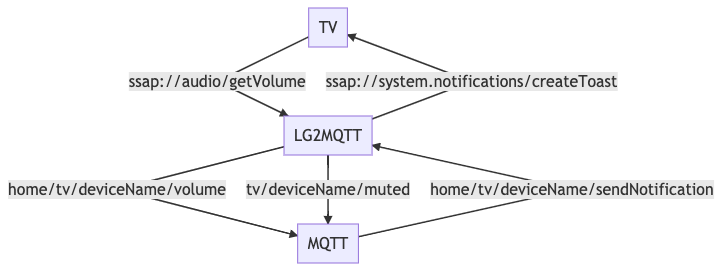
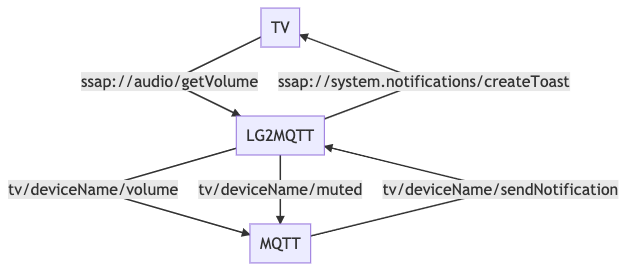
docs: drop home prefix from mqtt topics

diff --git a/packages/lg2mqtt/README.md b/packages/lg2mqtt/README.md
@@ -8,7 +8,7 @@ Bridge to communicate with LG Smart TVs
 
 ### Subscriptions:
 
-- `home/tv/${deviceName}/sendNotification` - Display a notification tooltip on TV screen
+- `tv/${deviceName}/sendNotification` - Display a notification tooltip on TV screen
 
   **Payload**:
 
@@ -18,8 +18,8 @@ Bridge to communicate with LG Smart TVs
   }
   ```
 
-- `home/tv/${deviceName}/turnOff` - Turns off the TV (_no payload_)
-- `home/tv/${deviceName}/lunchApp` - Lunch an app on TV
+- `tv/${deviceName}/turnOff` - Turns off the TV (_no payload_)
+- `tv/${deviceName}/lunchApp` - Lunch an app on TV
   **Payload**:
   ```
   {
@@ -40,24 +40,24 @@ Bridge to communicate with LG Smart TVs
       hdmi3: 'com.webos.app.hdmi3',
   }
   ```
-- `home/tv/${deviceName}/setMute` - Mutes / unmutes the TV
+- `tv/${deviceName}/setMute` - Mutes / unmutes the TV
   **Payload**:
   ```
   {
       mute: boolean
   }
   ```
-- `home/tv/${deviceName}/setVolume` - Changes the volume
+- `tv/${deviceName}/setVolume` - Changes the volume
   **Payload**:
   ```
   {
       volume: number
   }
   ```
-- `home/tv/${deviceName}/volumeUp` - _No payload_
-- `home/tv/${deviceName}/volumeDown` - _No payload_
-- `home/tv/${deviceName}/play` - _No payload_
-- `home/tv/${deviceName}/pause` - _No payload_
+- `tv/${deviceName}/volumeUp` - _No payload_
+- `tv/${deviceName}/volumeDown` - _No payload_
+- `tv/${deviceName}/play` - _No payload_
+- `tv/${deviceName}/pause` - _No payload_
 
 - Alerts
 
